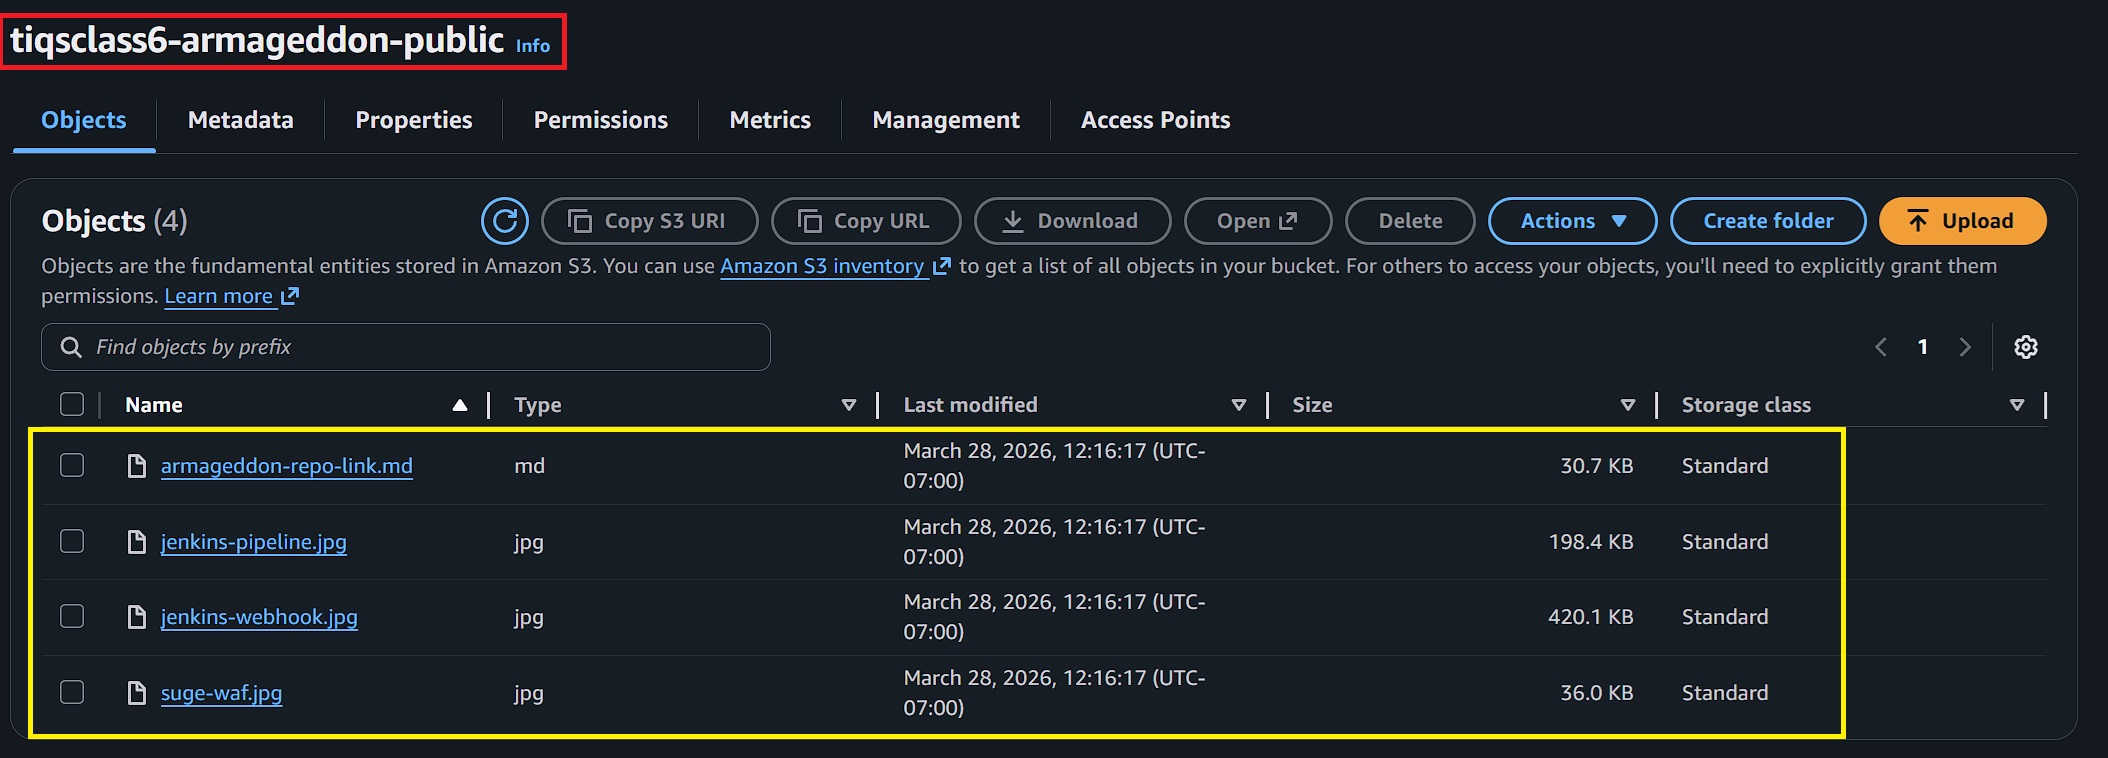
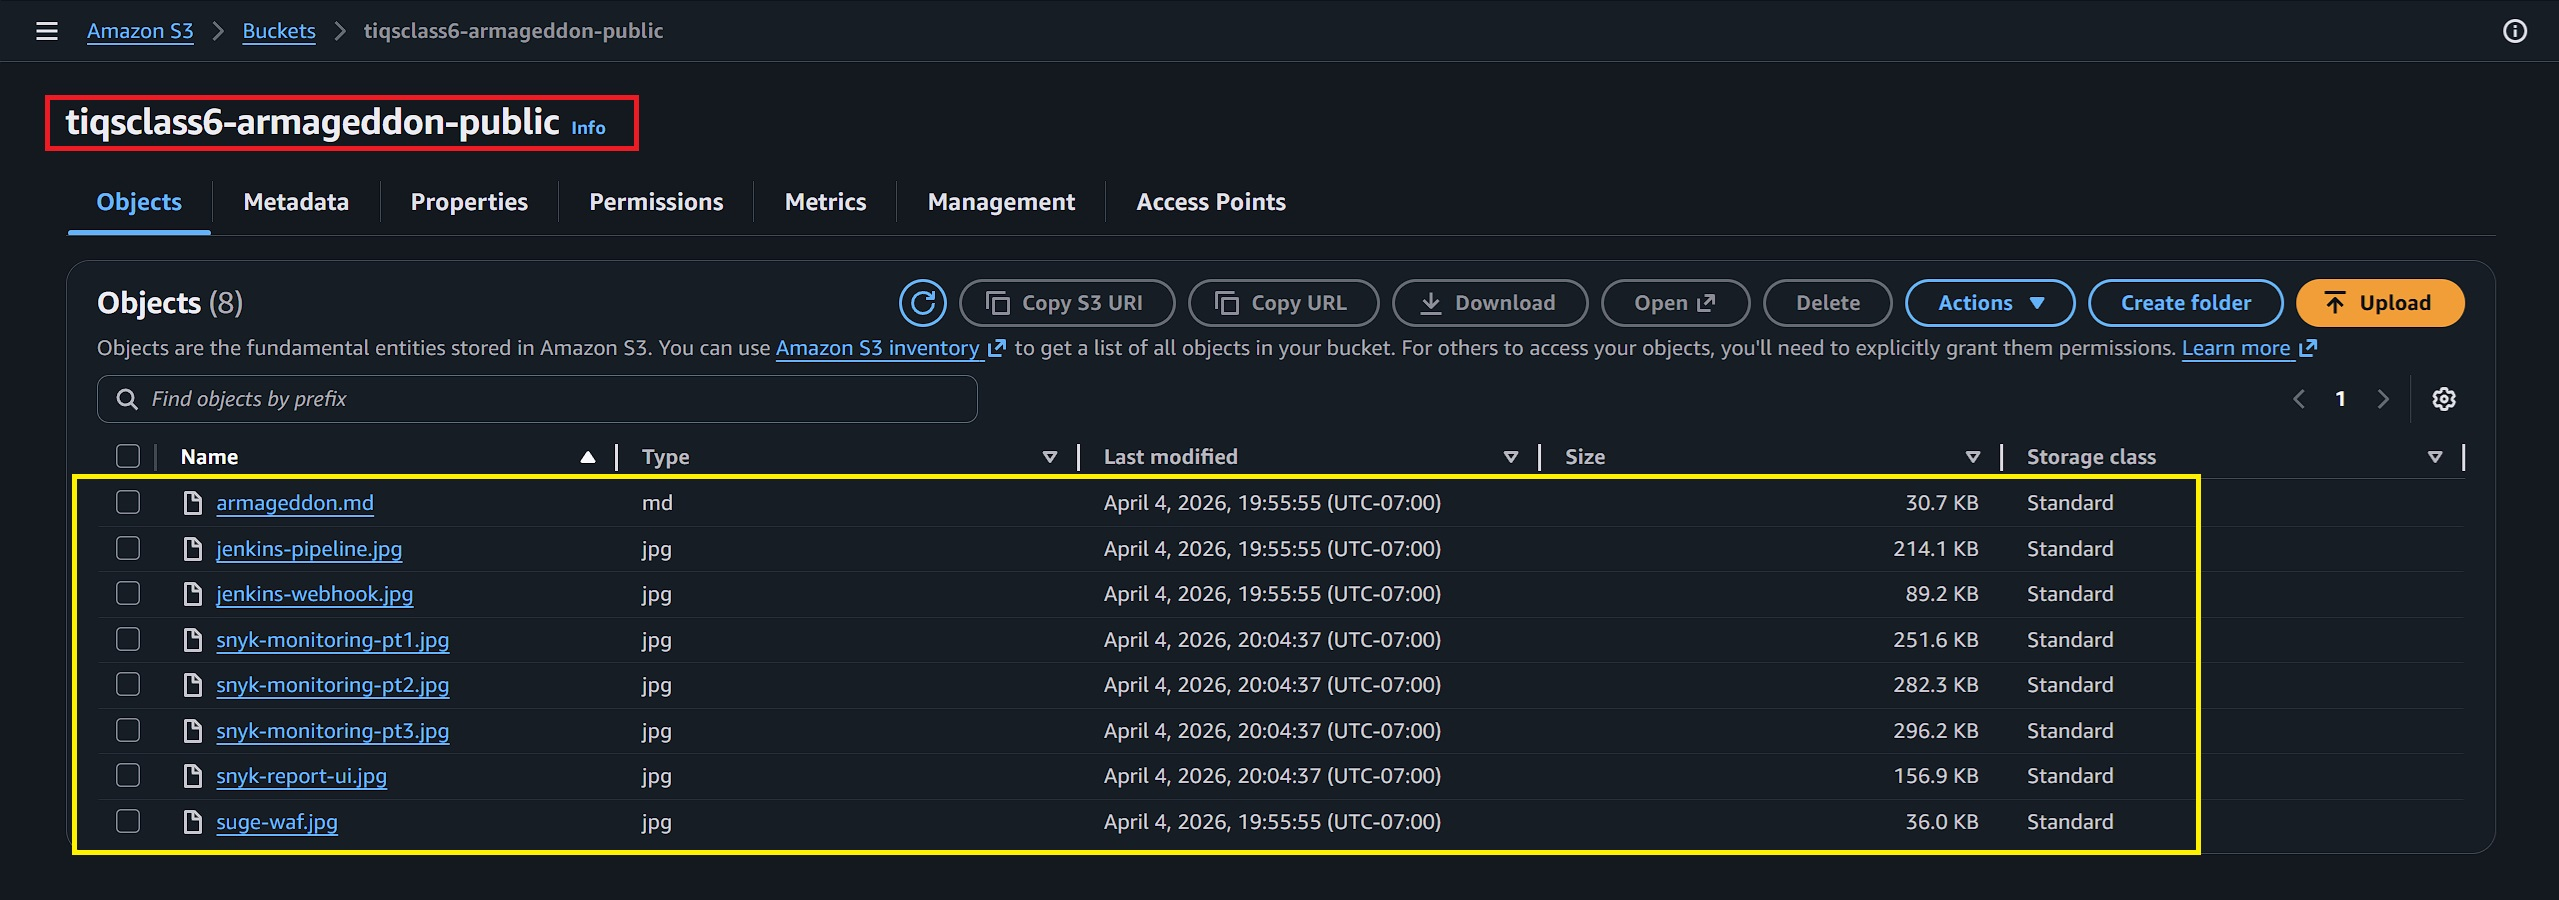
TIQS eleventh commit

diff --git a/README.md b/README.md
@@ -41,23 +41,39 @@ A simple declarative [**Jenkinsfile**](Jenkinsfile):
 
 ---
 
-## Snyk IaC Demo
+## Snyk Demos (CLI, Jenkins Plugin, and Web UI)
 
-<https://github.com/user-attachments/assets/69bd49f1-2700-4e2e-9a1e-77234b25baad>
+- <https://github.com/user-attachments/assets/b10c02ef-9c2e-4bfa-8745-e76f5a348245>
+- <https://github.com/user-attachments/assets/ac43752a-532e-49f8-972c-7e439ef28b12>
 
-- [**Snyk Report:**](https://app.snyk.io/org/daquietstorm22/project/7f7d6689-611a-4a40-865f-9e2d733a78fa)
+- [**Snyk Report (U/I): `s3.tf (errors)`**](https://app.snyk.io/org/daquietstorm22/project/e8af82ef-22aa-4963-9c62-7829558f4b12/history/5d6355bd-fdf9-4a9e-8d12-0dd861a86e51)
 
 ---
 
 ## Artifacts
 
-- **Suge WAF Output**
-- ![suge-waf.jpg](/images/suge-waf.jpg)
-- **Jenkins Pipeline Output**
-  -![jenkins-pipeline.jpg](/images/jenkins-pipeline.jpg)
-- **Jenkins Webhook Output**
-  - ![jenkins-webhook.jpg](/images/jenkins-webhook.jpg)
-- **S3 Bucket Output**
-  - ![s3-bucket.jpg](/images/s3-bucket.jpg)
 - **T.I.Q.S. Armageddon Repo:**
   - [**Full README.md**](/images/armageddon.md)
+- **Jenkins Pipeline Output**
+  ![jenkins-pipeline.jpg](/images/jenkins-pipeline.jpg)
+- **Jenkins Webhook Output**
+  ![jenkins-webhook.jpg](/images/jenkins-webhook.jpg)
+- **S3 Bucket Output**
+  ![s3-bucket.jpg](/images/s3-bucket.jpg)
+- **Snyk CLI Output**
+  ![snyk-monitoring-pt1.jpg](/images/snyk-monitoring-pt1.jpg)
+- **Snyk Jenkins Plugin Output**
+  ![snyk-monitoring-pt2.jpg](/images/snyk-monitoring-pt2.jpg)
+  ![snyk-monitoring-pt3.jpg](/images/snyk-monitoring-pt3.jpg)
+- **Snyk Report (U/I) Output**
+  ![snyk-report-ui.jpg](/images/snyk-report-ui.jpg)
+- **Suge WAF Output**
+  - ![suge-waf.jpg](/images/suge-waf.jpg)
+
+---
+
+## Author
+
+- **Team Lead:** John Sweeney
+- **Author:** T.I.Q.S. DevSecOps
+  - [**GitHub Home**](https://github.com/tiqsclass6)
